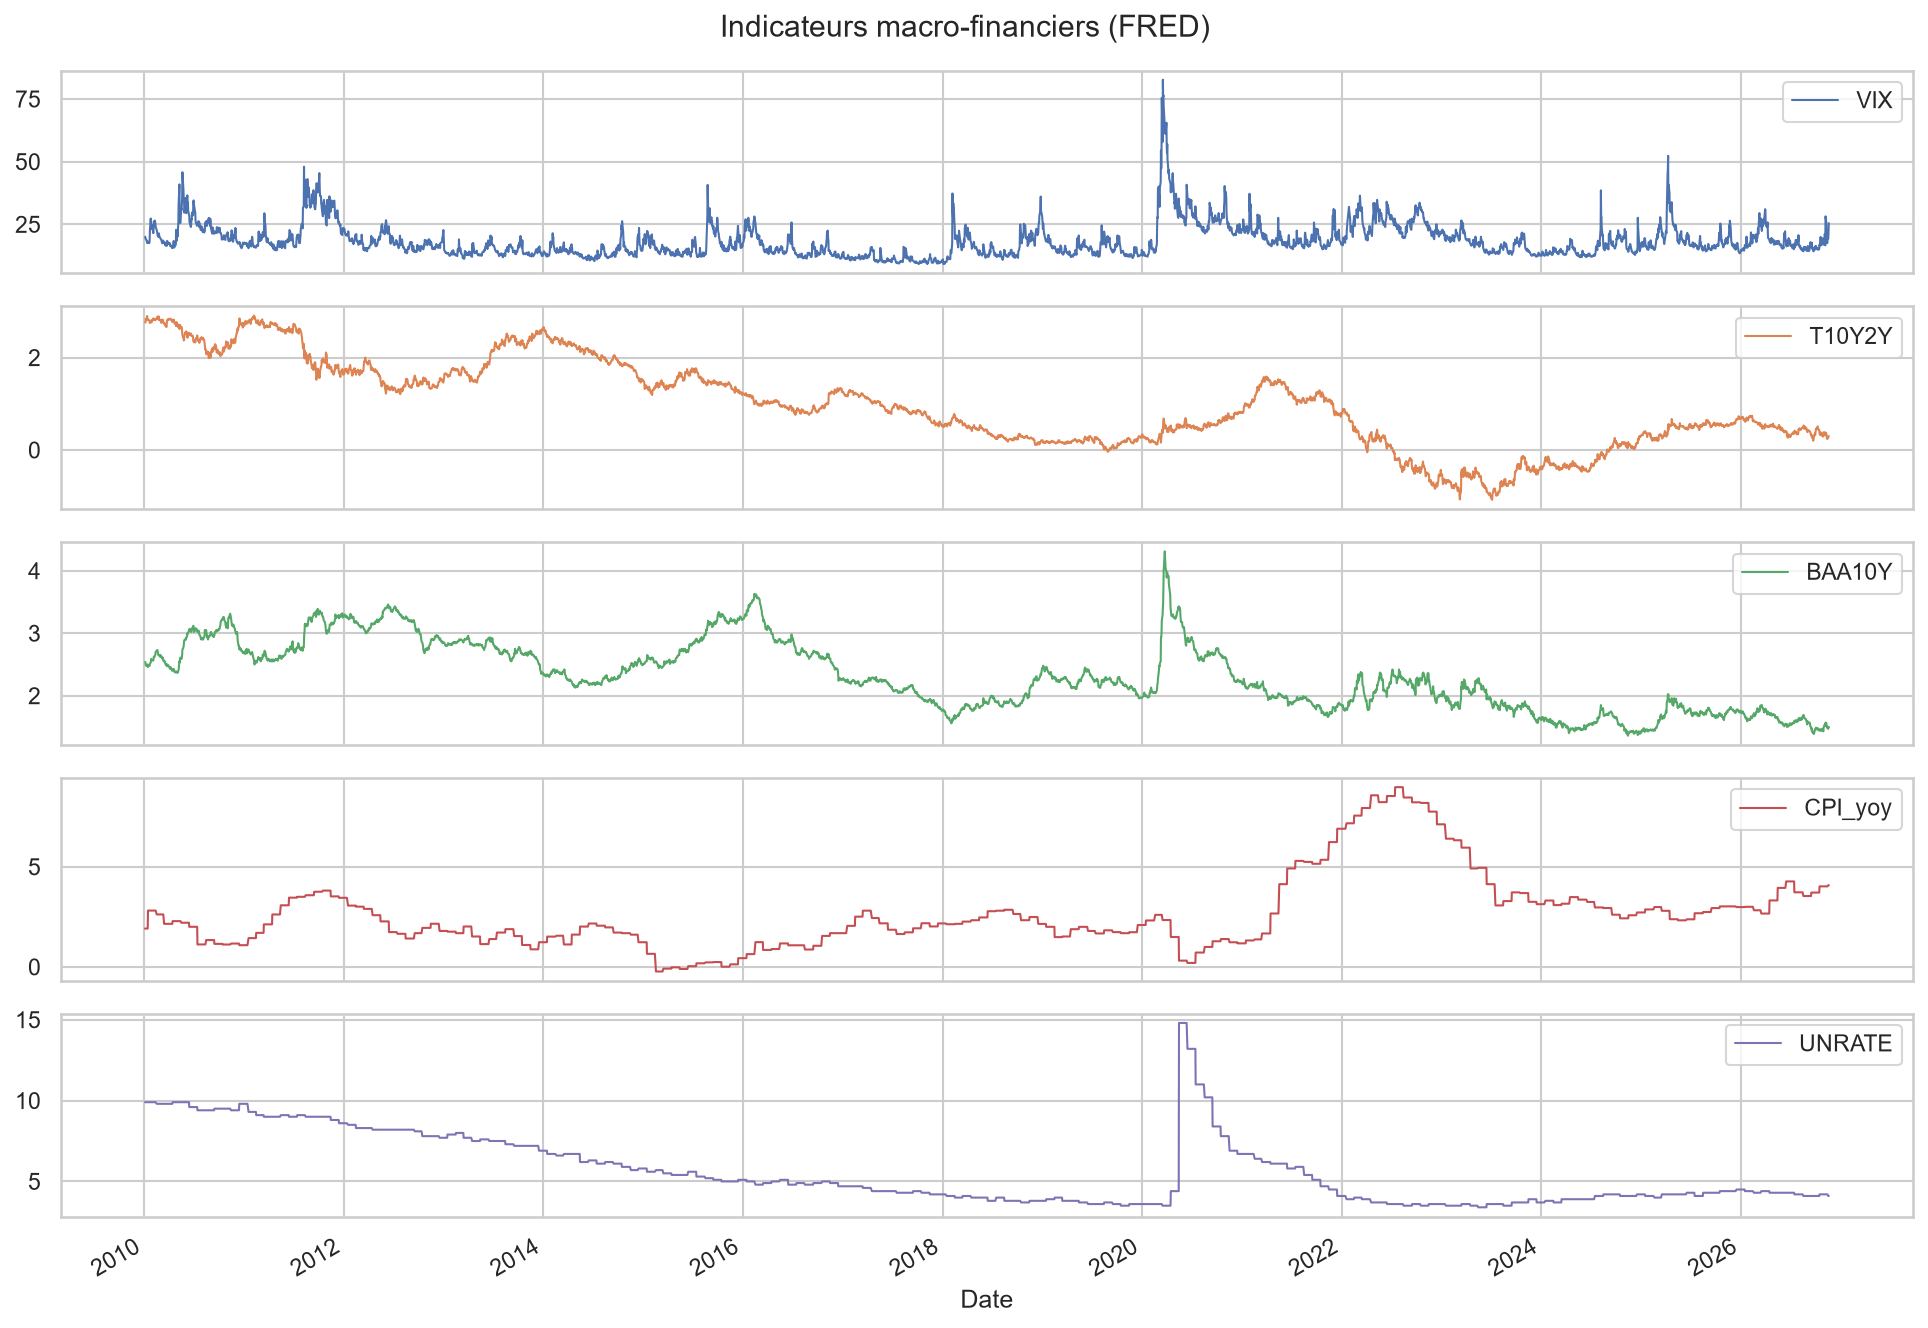
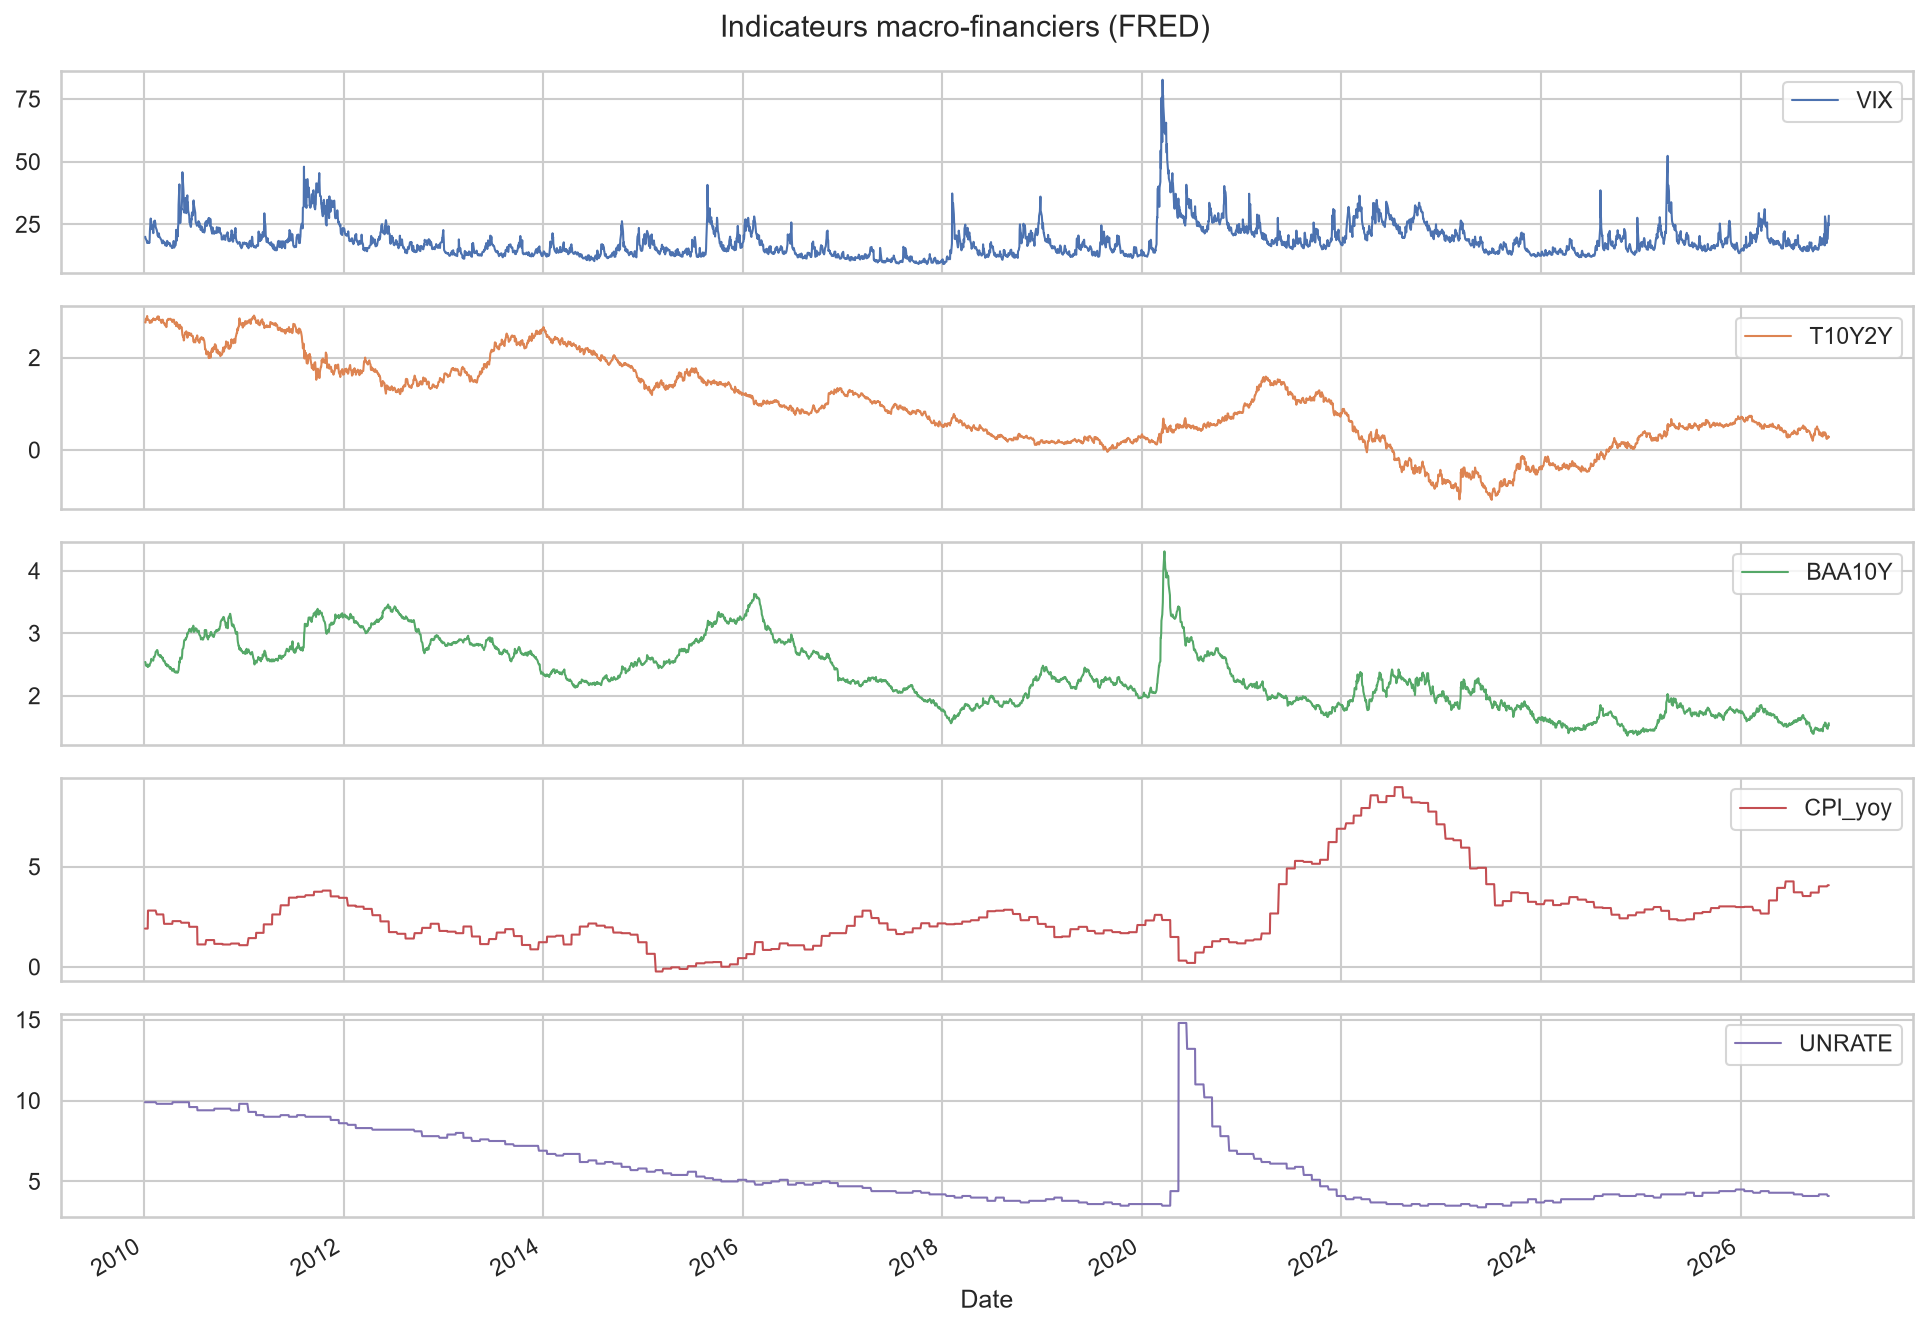
Notebook v4 : section 2 (pretraitement, macro sans fuite, analyse exploratoire)

diff --git a/tools/sections/s02_pretraitement_eda.py b/tools/sections/s02_pretraitement_eda.py
@@ -1,0 +1,161 @@
+from cellules import code, md
+
+CELLS = [
+md(r"""
+## 2. Prétraitement et analyse exploratoire des marchés
+
+> **Rappel du cours (défis du ML)** : « des données de mauvaise qualité génèrent de faux résultats, donc de mauvaises décisions ». La qualité et la préparation des données passent avant le choix du modèle.
+
+### 2.1 Diagnostic de qualité des données brutes
+Problèmes typiques des données financières réelles :
+- **calendriers différents** : le Bitcoin cote 7 jours sur 7, les ETF seulement les jours ouvrés de la bourse de New York (NYSE) ;
+- **historiques de longueurs différentes** (Bitcoin disponible à partir de septembre 2014) ;
+- **valeurs manquantes** ponctuelles (jours fériés, trous de l'API) ;
+- **valeurs aberrantes** (pics isolés dus à des erreurs de cotation).
+"""),
+code(r"""
+from src.preprocessing import clean_prices, compute_returns, build_macro_features, risk_free_daily
+
+first = close_raw.apply(lambda s: s.first_valid_index())
+quality = pd.DataFrame({
+    "Première cotation": first.dt.date,
+    "Nb observations": close_raw.count(),
+    "% manquants après 1re cotation": [close_raw.loc[first[c]:, c].isna().mean() * 100 for c in close_raw],
+    "Jours à volume nul": (volume_raw == 0).sum(),
+})
+quality
+"""),
+md(r"""
+**Nettoyage** (`clean_prices`) : (1) tri et suppression des dates en double ; (2) alignement sur le calendrier NYSE ; (3) suppression des prix nuls ou négatifs ; (4) suppression des pics aberrants « aller-retour » de plus de 40 % en deux jours (hors Bitcoin) ; (5) propagation de la dernière valeur connue sur 5 jours au plus. Le remplissage se fait **uniquement vers l'avant** : remplir vers l'arrière utiliserait une information future.
+"""),
+code(r"""
+prices, clean_report = clean_prices(close_raw)
+for k in ("dates_brutes", "dates_calendrier_NYSE", "prix_non_positifs", "pics_aberrants"):
+    print(f"{k:<28}: {clean_report[k]}")
+fig, ax = plt.subplots(figsize=(12, 4))
+sns.heatmap(prices.isna().T.astype(int).iloc[:, ::5], cbar=False, cmap="Greys", ax=ax)
+ax.set_title("Disponibilité des données après nettoyage (noir = manquant)")
+ax.set_xticks([])
+savefig("01_disponibilite_donnees")
+plt.show()
+"""),
+md(r"""
+### 2.2 Rendements et valeurs extrêmes
+On travaille sur les **rendements** $r_t = P_t / P_{t-1} - 1$, à peu près stationnaires, et non sur les prix, qui ne le sont pas.
+
+Une valeur extrême n'est pas forcément une erreur. Le **z-score** (méthode statistique de détection d'anomalies du cours) repère les rendements à plus de 6 écarts-types. Ce sont de vrais événements de marché (krach de mars 2020…) : ils sont **conservés**, car ce sont précisément les risques que le système doit apprendre à gérer.
+"""),
+code(r"""
+returns = compute_returns(prices)
+z = (returns - returns.mean()) / returns.std()
+extremes = (z.abs() > 6).sum().sort_values(ascending=False)
+print("Nombre de rendements à plus de 6 écarts-types (conservés) :")
+display(extremes[extremes > 0].to_frame("nb").T)
+spy_ext = returns["SPY"][z["SPY"].abs() > 6].sort_values()
+print("Exemples (S&P 500) :")
+display(spy_ext.head(6).to_frame("rendement du jour"))
+"""),
+md(r"""
+### 2.3 Variables macroéconomiques sans fuite temporelle
+Une donnée macroéconomique n'est utilisable qu'à sa **date de publication**, pas à sa date de référence. Sinon, le modèle utiliserait une information qui n'existait pas encore : c'est une **fuite de données**.
+- Séries quotidiennes (taux, VIX) : décalées d'un jour ouvré (publiées à J+1).
+- Séries mensuelles (inflation, chômage) : la valeur du mois M n'est disponible qu'à partir du 15 du mois M+1.
+"""),
+code(r"""
+macro = build_macro_features(fred_raw, prices.index)
+rf_daily = risk_free_daily(macro)
+display(macro.describe().T[["count", "mean", "std", "min", "max"]])
+
+prices.to_csv(DATA_PROC / "prices_clean.csv")
+returns.to_csv(DATA_PROC / "returns_daily.csv")
+macro.to_csv(DATA_PROC / "macro_features.csv")
+print("Données nettoyées enregistrées dans", DATA_PROC)
+"""),
+md(r"""
+### 2.4 Analyse exploratoire
+Pour ne pas orienter nos choix de modélisation avec des informations de la période de test, les statistiques qui **guident la modélisation** sont calculées sur la période d'entraînement (2010-2019). Les graphiques de contexte couvrent toute la période.
+"""),
+code(r"""
+train_mask = returns.index <= TRAIN_END
+R_tr = returns[train_mask]
+
+
+def describe_returns(R: pd.DataFrame) -> pd.DataFrame:
+    w = (1 + R.fillna(0)).cumprod()
+    out = pd.DataFrame({
+        "Classe": pd.Series(ASSET_CLASS),
+        "Rdt annualisé": R.mean() * 252,
+        "Vol annualisée": R.std() * np.sqrt(252),
+        "Asymétrie": R.skew(),
+        "Kurtosis (excès)": R.kurt(),
+        "Max drawdown": (w / w.cummax() - 1).min(),
+        "p-val Jarque-Bera": [stats.jarque_bera(R[c].dropna()).pvalue for c in R],
+    })
+    out["Sharpe (rf=0)"] = out["Rdt annualisé"] / out["Vol annualisée"]
+    return out.loc[R.columns]
+
+
+stats_train = describe_returns(R_tr)
+stats_train.to_csv(RESULTS_DIR / "stats_actifs_train.csv")
+stats_train.sort_values("Classe")
+"""),
+md(r"""
+**Lecture** : tous les rendements journaliers ont une kurtosis en excès positive (**queues épaisses**), et la normalité est rejetée (p-valeurs de Jarque-Bera ≈ 0). Conséquences pour la suite : (i) mesurer le risque aussi par des quantiles historiques (VaR, CVaR), pas seulement par la volatilité ; (ii) écrêter les variables extrêmes (winsorisation) dans les pipelines ; (iii) préférer des modèles robustes aux valeurs extrêmes, comme les arbres.
+"""),
+code(r"""
+show = ["SPY", "EFA", "EEM", "TLT", "IEF", "SHY", "GLD", "VNQ", "DBC"]
+norm = prices[show].dropna().pipe(lambda d: d / d.iloc[0] * 100)
+fig, axes = plt.subplots(1, 2, figsize=(15, 5))
+norm.plot(ax=axes[0], lw=1.2)
+axes[0].set_title("Performance cumulée (base 100)")
+(prices["BTC-USD"].dropna() / prices["BTC-USD"].dropna().iloc[0] * 100).plot(ax=axes[1], logy=True, color="darkorange")
+axes[1].set_title("Bitcoin (échelle logarithmique)")
+for d in ("2020-03-23", "2022-10-12"):
+    for ax in axes:
+        ax.axvline(pd.Timestamp(d), color="red", ls="--", alpha=.5)
+savefig("02_performances_cumulees")
+plt.show()
+
+fig, ax = plt.subplots(figsize=(11, 9))
+sns.heatmap(R_tr.corr(), cmap="RdBu_r", center=0, vmin=-1, vmax=1, ax=ax, square=True, cbar_kws={"shrink": .7})
+ax.set_title("Corrélation des rendements quotidiens (période d'entraînement)")
+savefig("03_correlations")
+plt.show()
+"""),
+code(r"""
+fig, axes = plt.subplots(1, 3, figsize=(17, 4.5))
+returns["SPY"].rolling(126).corr(returns["TLT"]).plot(ax=axes[0], color="purple")
+axes[0].axhline(0, color="k", lw=.8)
+axes[0].set_title("Corrélation glissante 6 mois actions / obligations longues")
+
+r = returns["SPY"].dropna()
+sns.histplot(r, bins=150, stat="density", ax=axes[1], color="steelblue")
+xx = np.linspace(r.min(), r.max(), 300)
+axes[1].plot(xx, stats.norm.pdf(xx, r.mean(), r.std()), "r", label="Loi normale")
+axes[1].set_xlim(-0.06, 0.06)
+axes[1].legend()
+axes[1].set_title("Distribution des rendements du S&P 500")
+
+lags = range(1, 31)
+axes[2].bar([l - .2 for l in lags], [r.autocorr(l) for l in lags], width=.4, label="rendements")
+axes[2].bar([l + .2 for l in lags], [r.abs().autocorr(l) for l in lags], width=.4, label="|rendements|")
+axes[2].set_title("Autocorrélations : regroupement de volatilité")
+axes[2].legend()
+savefig("04_faits_stylises")
+plt.show()
+
+cols = [c for c in ["VIX", "T10Y2Y", "BAA10Y", "CPI_yoy", "UNRATE"] if c in macro]
+macro[cols].plot(subplots=True, figsize=(13, 9), lw=1, title="Indicateurs macro-financiers (FRED)")
+plt.tight_layout()
+savefig("05_macro")
+plt.show()
+chrono("2. Prétraitement et EDA")
+"""),
+md(r"""
+**Faits stylisés et conséquences pour la modélisation**
+1. **Diversification instable** : la corrélation actions / obligations, négative pendant les années 2010, devient positive en 2022 (choc d'inflation). La covariance doit donc être réestimée en continu (fenêtre glissante d'un an).
+2. **Queues épaisses** : voir ci-dessus.
+3. **Regroupement de volatilité** : les rendements sont presque non autocorrélés, mais leurs valeurs absolues le sont fortement. Le **niveau de risque** est donc prévisible, beaucoup plus que la **direction** des prix. Cela justifie un agent Régime, et laisse attendre un pouvoir prédictif faible pour l'agent Prévision.
+4. **Non-stationnarité des niveaux macro** : la courbe des taux s'est inversée de 2022 à 2024 (T10Y2Y < 0), un niveau jamais observé dans l'entraînement. Les modèles utiliseront de préférence des **variations** et des **logarithmes**, plus stables dans le temps.
+"""),
+]
